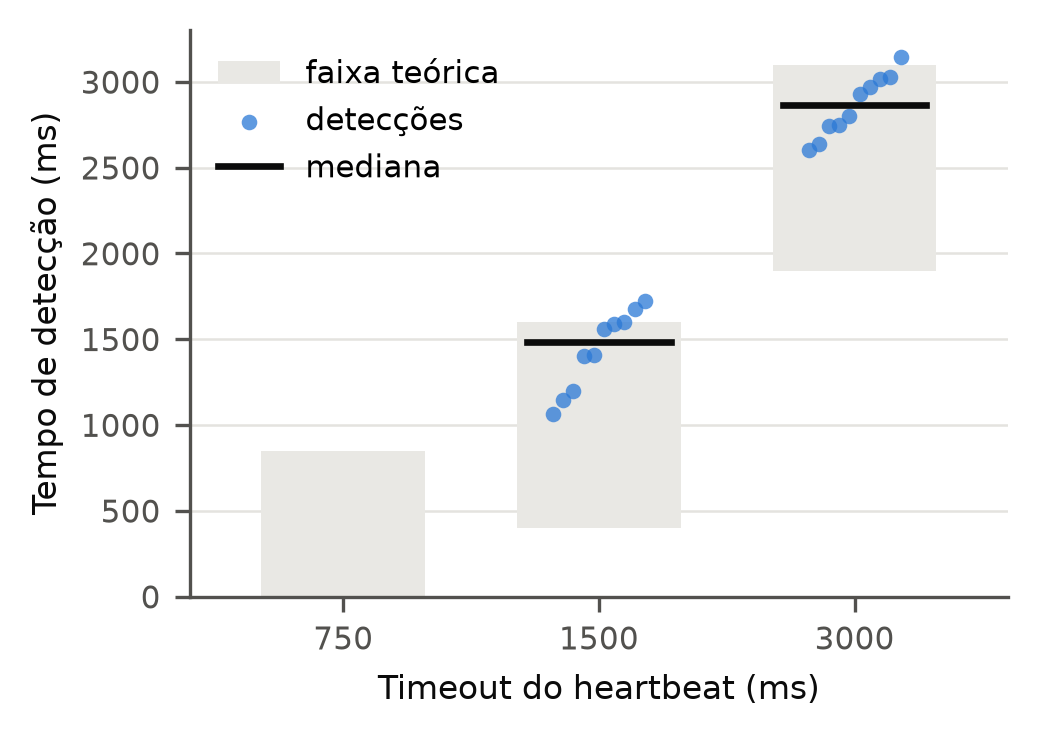
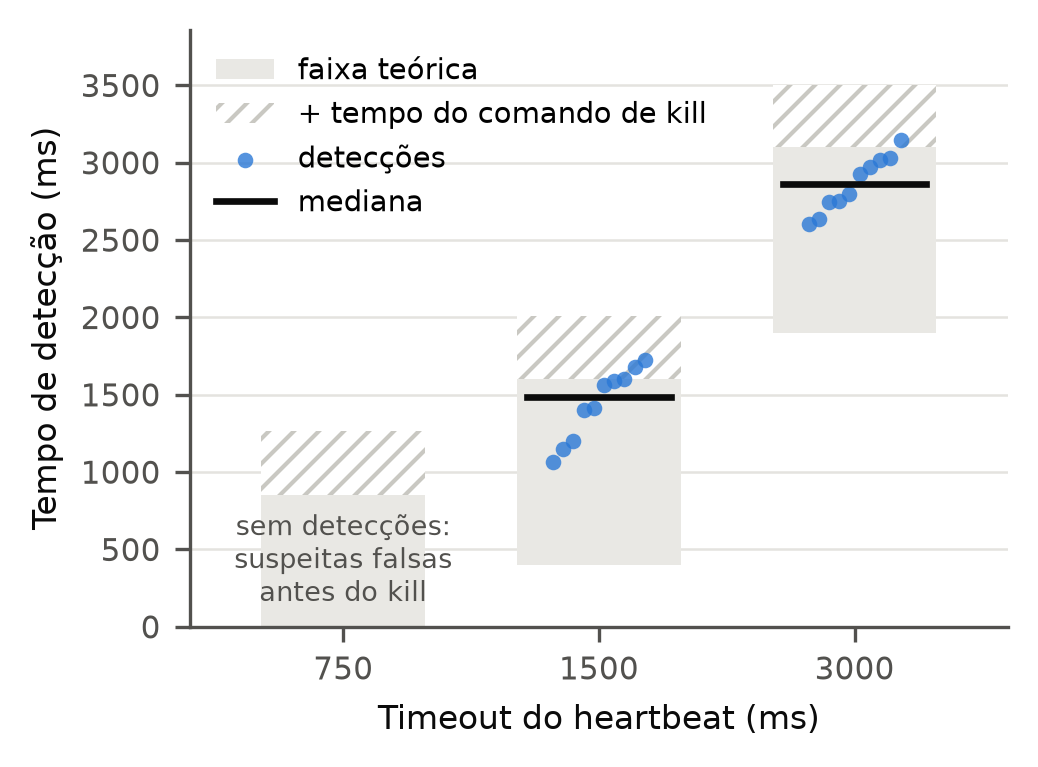
nova area nos graficos + novo analyzer

diff --git a/scripts/analyze.py b/scripts/analyze.py
@@ -467,28 +467,47 @@ def plot_hb(plt, levels, rows):
     labels = [f"{lv['hb_timeout_ms']:.0f}" for lv in levels]
     pos = list(range(len(levels)))
 
-    # 3) Tempo de detecção: pontos individuais, mediana e faixa teórica
-    fig, ax = plt.subplots(figsize=(3.5, 2.5))
+    # 3) Tempo de detecção: pontos individuais, mediana e faixa teórica.
+    # Acima da faixa, uma extensão hachurada mostra o tempo do comando de kill:
+    # o KILL é registrado antes do comando, então o valor medido inclui esse tempo.
+    fig, ax = plt.subplots(figsize=(3.5, 2.6))
+    legend_done = set()
+
+    def once(name):
+        if name in legend_done:
+            return None
+        legend_done.add(name)
+        return name
+
     for i, lv in enumerate(levels):
-        ax.add_patch(plt.Rectangle((i - 0.32, lv["theory_low_ms"]), 0.64,
-                                   lv["theory_high_ms"] - lv["theory_low_ms"],
-                                   color=BAND, zorder=1, linewidth=0,
-                                   label="faixa teórica" if i == 0 else None))
-        det = sorted(d for row in rows if row["hb_timeout_ms"] == lv["hb_timeout_ms"]
-                     for d in row["detections_ms"])
+        lv_rows = [row for row in rows if row["hb_timeout_ms"] == lv["hb_timeout_ms"]]
+        low, high = lv["theory_low_ms"], lv["theory_high_ms"]
+        ax.add_patch(plt.Rectangle((i - 0.32, low), 0.64, high - low, color=BAND, zorder=1,
+                                   linewidth=0, label=once("faixa teórica")))
+        kill_ms = [row["kill_cmd_ms"] for row in lv_rows if row.get("kill_cmd_ms") is not None]
+        if kill_ms:
+            ax.add_patch(plt.Rectangle((i - 0.32, high), 0.64, max(kill_ms), facecolor="white",
+                                       edgecolor="#c9c8c2", hatch="////", linewidth=0, zorder=1,
+                                       label=once("+ tempo do comando de kill")))
+        det = sorted(d for row in lv_rows for d in row["detections_ms"])
+        if not det:
+            # nenhuma detecção: os nós já tinham suspeitado do nó antes do kill
+            ax.annotate("sem detecções:\nsuspeitas falsas\nantes do kill", (i, (low + high) / 2),
+                        ha="center", va="center", fontsize=6.5, color=INK2, zorder=4)
+            continue
         # espalha os pontos na horizontal de forma determinística para não se sobreporem
         k = len(det)
         offs = [(-0.18 + 0.36 * j / (k - 1)) if k > 1 else 0 for j in range(k)]
-        ax.scatter([i + o for o in offs], det, s=14, color=BLUE, alpha=0.75, linewidths=0, zorder=3,
-                   label="detecções" if i == 0 else None)
+        ax.scatter([i + o for o in offs], det, s=14, color=BLUE, alpha=0.8, linewidths=0, zorder=3,
+                   label=once("detecções"))
         ax.plot([i - 0.28, i + 0.28], [lv["det_p50_ms"]] * 2, color=INK, linewidth=1.6, zorder=4,
-                label="mediana" if i == 0 else None)
+                label=once("mediana"))
     ax.set_xticks(pos, labels)
     ax.set_xlim(-0.6, len(levels) - 0.4)
-    ax.set_ylim(bottom=0)
+    ax.set_ylim(0, ax.get_ylim()[1] * 1.05)
     ax.set_xlabel("Timeout do heartbeat (ms)")
     ax.set_ylabel("Tempo de detecção (ms)")
-    ax.legend(frameon=False, loc="upper left")
+    ax.legend(frameon=False, loc="upper left", fontsize=7)
     save(fig, "hb_deteccao")
     plt.close(fig)
 
